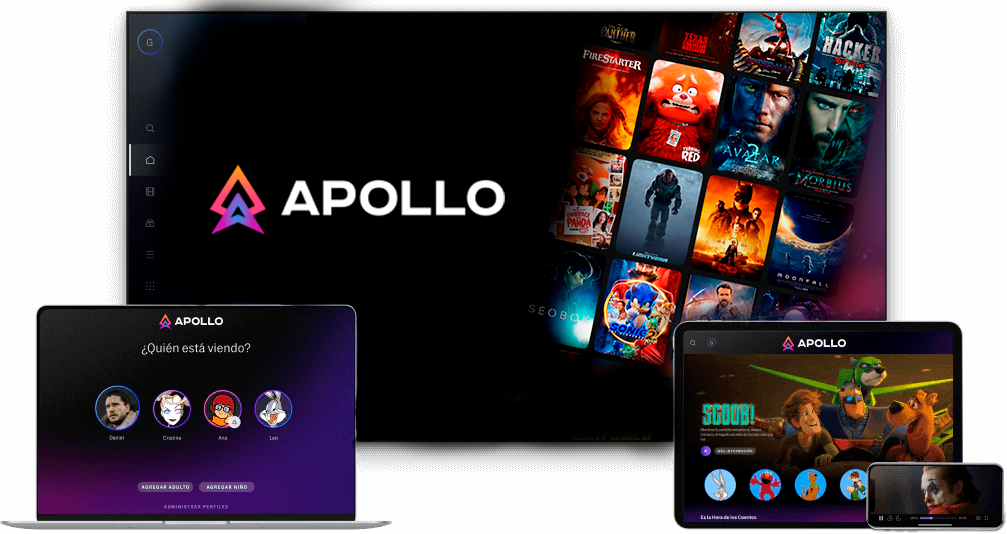
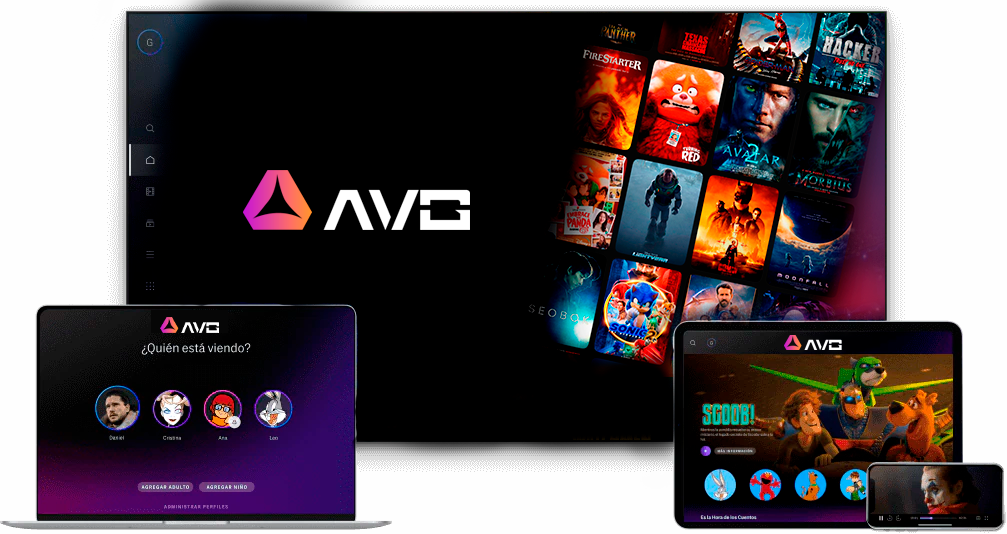
change images

diff --git a/public/login.html b/public/login.html
@@ -53,7 +53,7 @@
         <a id="img-nav" href="./index.html">
           <img
             class="img-nav"
-            src="imagenes/LOGO-A.png"
+            src="imagenes/avg.png"
             alt="logotipo"
           />
         </a>
@@ -144,7 +144,7 @@
     <div class="footer-gradiente"></div>
     <footer class="main-footer">
       <div class="footer-logo">
-        <img class="footer-logo-2" src="./imagenes/LOGO-WHITE.png" alt="">
+        <img class="footer-logo-2" src="./imagenes/logo-avg.png" alt="">
         <a class="link-footer" href="">© 2023. All rights reserved</a>
       </div>
    
